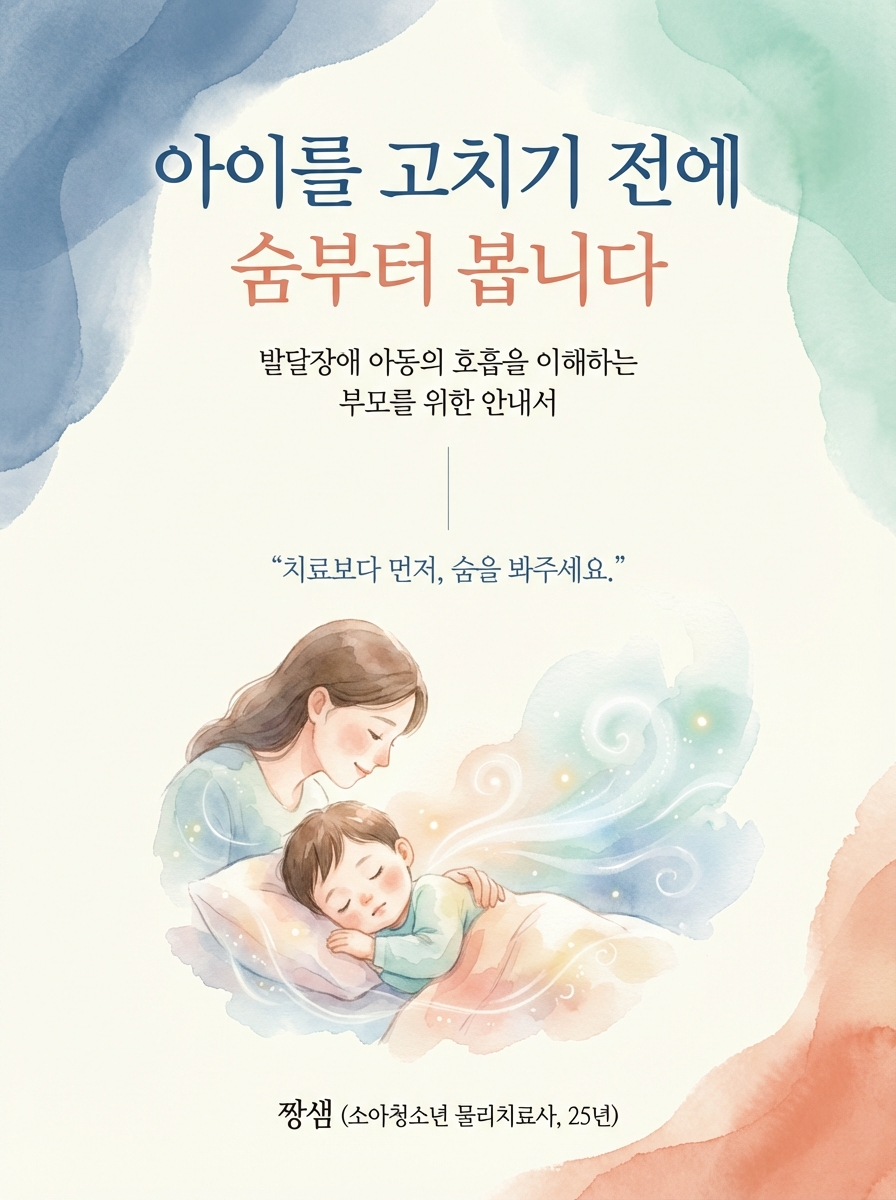
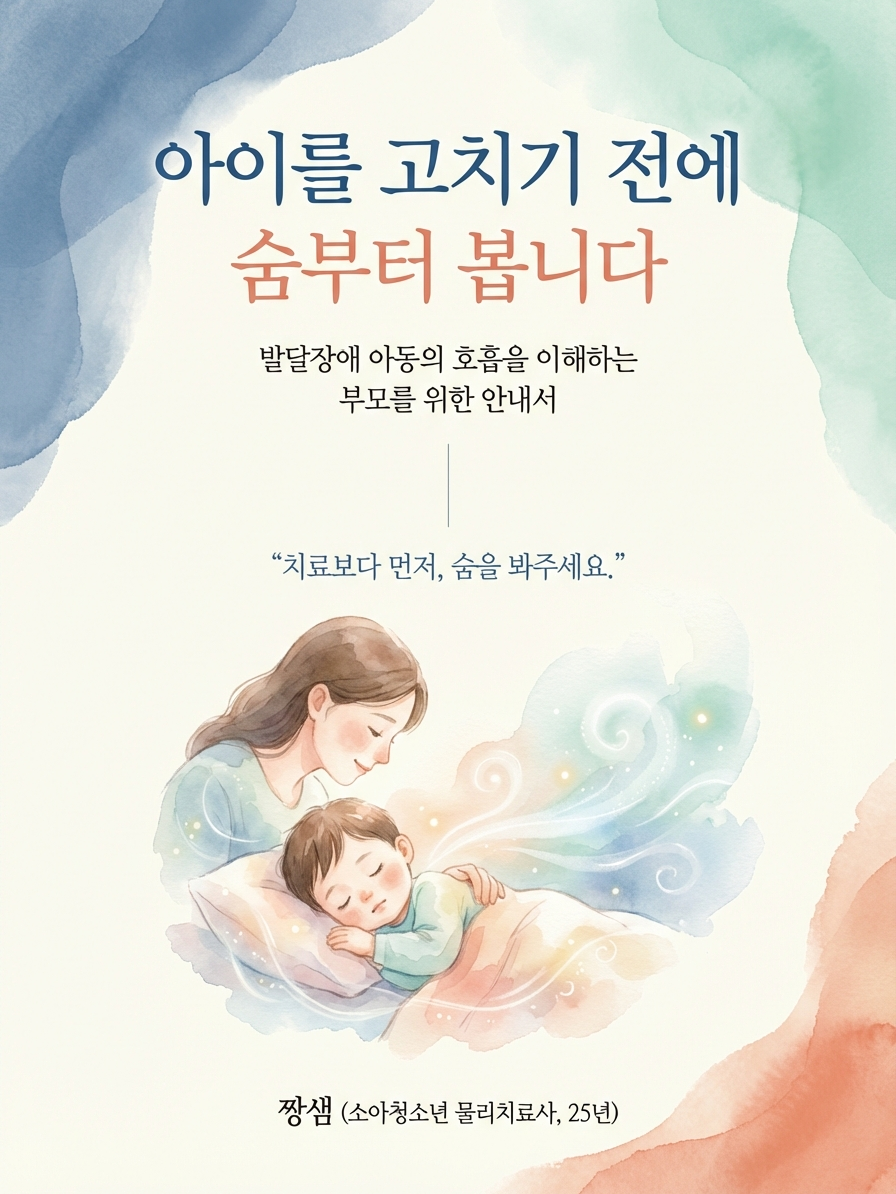
fix: 표지 이미지를 3:4 비율로 크롭하여 중앙 정렬 문제 해결

diff --git a/src/components/ebook/EbookCard.tsx b/src/components/ebook/EbookCard.tsx
@@ -19,7 +19,7 @@ export default function EbookCard({ ebook }: EbookCardProps) {
             src={ebook.coverImage}
             alt={ebook.title}
             fill
-            className={`${ebook.coverHasText ? "object-contain" : "object-cover"} transition-transform group-hover:scale-105`}
+            className="object-cover transition-transform group-hover:scale-105"
             sizes="(max-width: 640px) 50vw, (max-width: 1024px) 33vw, 20vw"
           />
           {/* Text overlay */}

diff --git a/src/app/my-library/page.tsx b/src/app/my-library/page.tsx
@@ -84,7 +84,7 @@ export default function MyLibraryPage() {
                         src={ebook.coverImage}
                         alt={purchase.ebook_title}
                         fill
-                        className={ebook.coverHasText ? "object-contain" : "object-cover"}
+                        className="object-cover"
                         sizes="(max-width: 640px) 100vw, (max-width: 1024px) 50vw, 33vw"
                       />
                       {!ebook.coverHasText && (

diff --git a/src/components/ebook/EbookHero.tsx b/src/components/ebook/EbookHero.tsx
@@ -17,7 +17,7 @@ export default function EbookHero({ ebook }: EbookHeroProps) {
           src={ebook.coverImage}
           alt={ebook.title}
           fill
-          className={ebook.coverHasText ? "object-contain" : "object-cover"}
+          className="object-cover"
           sizes="(max-width: 640px) 160px, 208px"
           priority
         />
